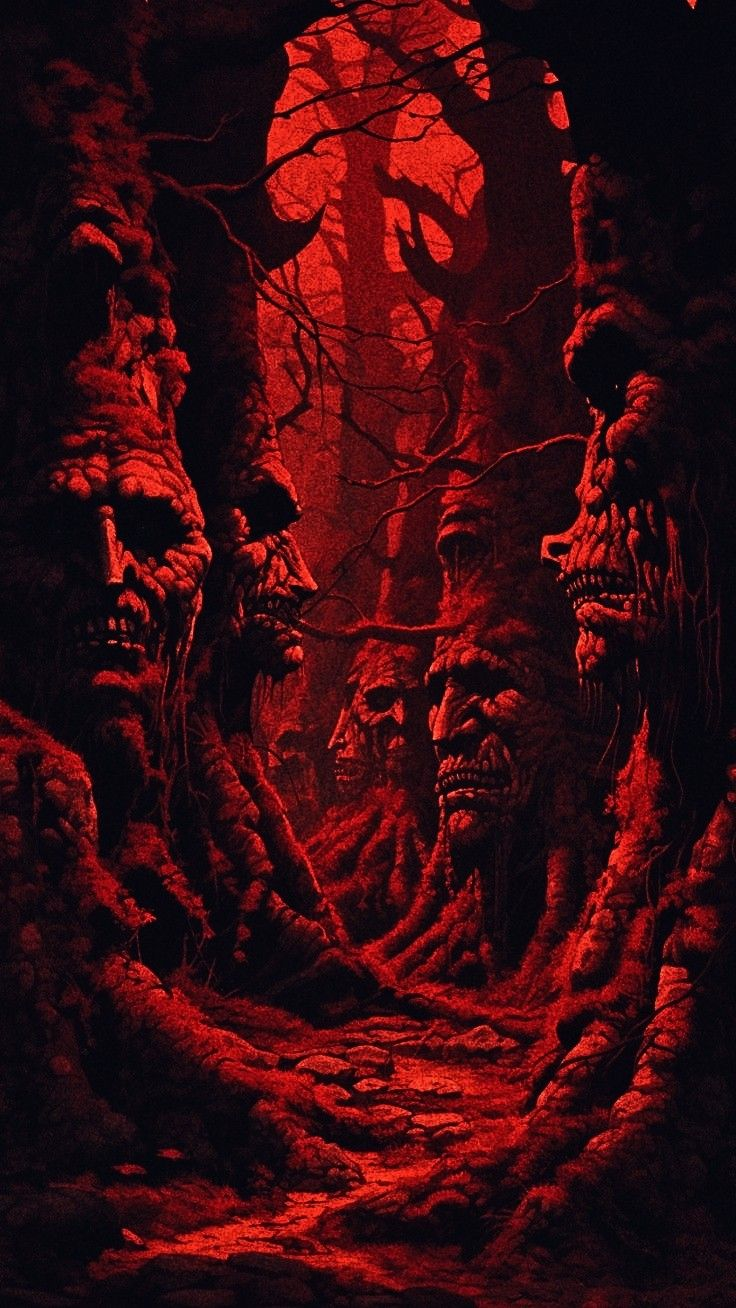
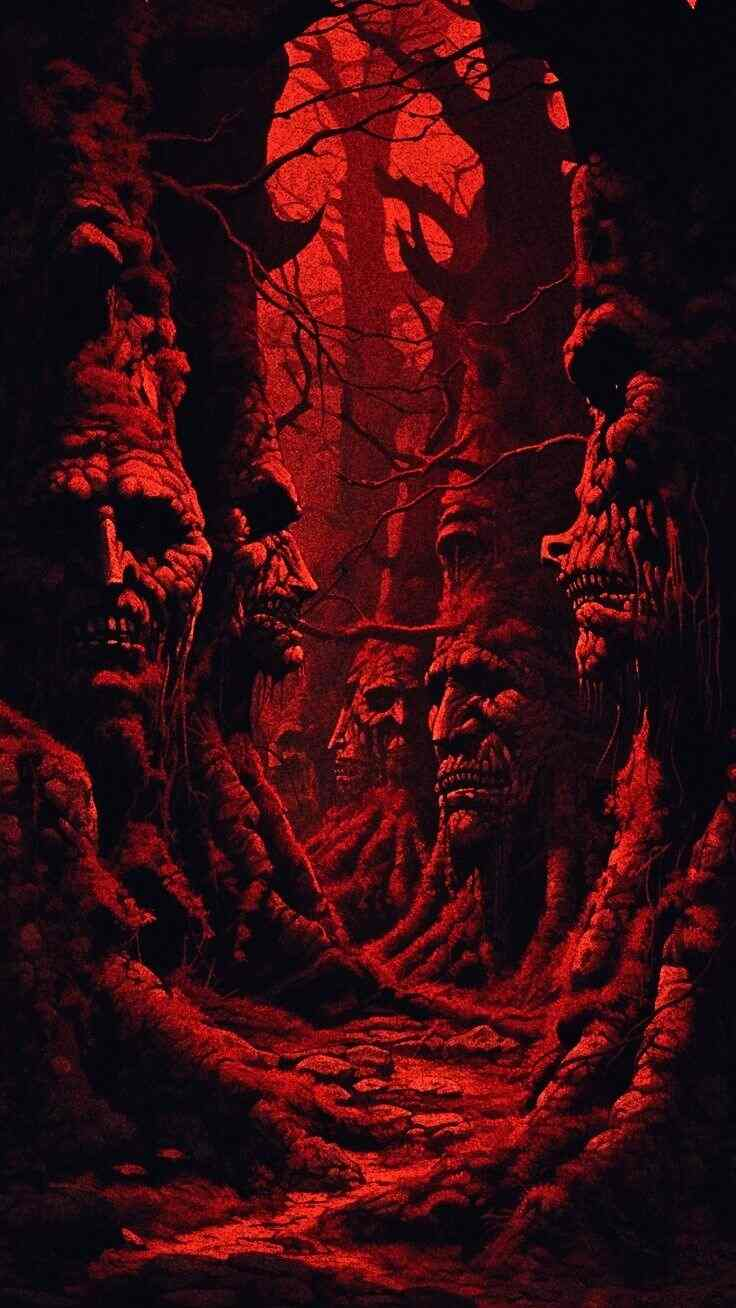
Webp images

diff --git a/frontend/src/pages/Home/SponsersSection.jsx b/frontend/src/pages/Home/SponsersSection.jsx
@@ -2,20 +2,20 @@ import React, { Fragment } from 'react';
 import { Grid, Paper, Stack, Typography } from '@mui/material';
 import { motion } from 'framer-motion'; // Import framer-motion
 
-import monster from "../../assets/home-page/sponsors-section/monster.jpeg"
-import cocaCola from "../../assets/home-page/sponsors-section/coca-cola.jpg";
-import decathlon from "../../assets/home-page/sponsors-section/decathlon.jpg";
+import monster from "../../assets/home-page/sponsors-section/monster.webp"
+import cocaCola from "../../assets/home-page/sponsors-section/coca-cola.webp";
+import decathlon from "../../assets/home-page/sponsors-section/decathlon.webp";
 import elm from "../../assets/home-page/sponsors-section/elm.jpg";
 import fusionGrill from "../../assets/home-page/sponsors-section/fusion-grill.jpg";
 import grapevine from "../../assets/home-page/sponsors-section/grapevine.jpg";
-import lic from "../../assets/home-page/sponsors-section/lic.jpg";
-import mtv from "../../assets/home-page/sponsors-section/mtv.jpg";
+import lic from "../../assets/home-page/sponsors-section/lic.webp";
+import mtv from "../../assets/home-page/sponsors-section/mtv.webp";
 import nba from "../../assets/home-page/sponsors-section/nba.jpg";
-import nivia from "../../assets/home-page/sponsors-section/nivia.png";
-import bisleri from "../../assets/home-page/sponsors-section/bisleri.png";
-import wowMomo from "../../assets/home-page/sponsors-section/wowmomo.jpeg";
-import sting from "../../assets/home-page/sponsors-section/sting.jpeg";
-import bgImage from "../../assets/home-page/sponsors-section/sponsor-bg.jpg";
+import nivia from "../../assets/home-page/sponsors-section/nivia.webp";
+import bisleri from "../../assets/home-page/sponsors-section/bisleri.webp";
+import wowMomo from "../../assets/home-page/sponsors-section/wowmomo.webp";
+import sting from "../../assets/home-page/sponsors-section/sting.webp";
+import bgImage from "../../assets/home-page/sponsors-section/sponsor-bg.webp";
 
 const sponsors = [
     {

diff --git a/frontend/src/data/events.js b/frontend/src/data/events.js
@@ -1,17 +1,17 @@
-import futsalPhoto from "../assets/events/futsal.jpg";
-import tugOfWarPhoto from "../assets/events/tug-of-war.jpg";
-import volleyballPhoto from "../assets/events/volleyball.jpg";
-import badmintonPhoto from "../assets/events/badminton.jpg";
-import basketballPhoto from "../assets/events/basketball.jpg";
-import chessPhoto from "../assets/events/chess.jpg";
-import carromPhoto from "../assets/events/carrom.jpg";
-import ttPhoto from "../assets/events/table-tennis.jpg";
-import bgmiPhoto from "../assets/events/bgmi.jpg";
-import cricketPhoto from "../assets/events/cricket.jpg";
-import powerliftingPhoto from "../assets/events/powerlifting.jpg";
-import valorantPhoto from "../assets/events/valorant.jpg";
-import fifaPhoto from "../assets/events/fifa.jpg";
-import strongWomenPhoto from "../assets/events/strong-woman.jpg";
+import futsalPhoto from "../assets/events/futsal.webp";
+import tugOfWarPhoto from "../assets/events/tug-of-war.webp";
+import volleyballPhoto from "../assets/events/volleyball.webp";
+import badmintonPhoto from "../assets/events/badminton.webp";
+import basketballPhoto from "../assets/events/basketball.webp";
+import chessPhoto from "../assets/events/chess.webp";
+import carromPhoto from "../assets/events/carrom.webp";
+import ttPhoto from "../assets/events/table-tennis.webp";
+import bgmiPhoto from "../assets/events/bgmi.webp";
+import cricketPhoto from "../assets/events/cricket.webp";
+import powerliftingPhoto from "../assets/events/powerlifting.webp";
+import valorantPhoto from "../assets/events/valorant.webp";
+import fifaPhoto from "../assets/events/fifa.webp";
+import strongWomenPhoto from "../assets/events/strong-woman.webp";
 
 const eventsList = [
     {

diff --git a/frontend/src/pages/Home/AboutSection.jsx b/frontend/src/pages/Home/AboutSection.jsx
@@ -1,9 +1,10 @@
 import React from 'react';
 import { Grid, Paper, Stack, Typography } from '@mui/material';
 import { motion } from 'framer-motion';
-import aboutBg from "../../assets/about-page/about-bg.jpeg";
-import iiestImage from "../../assets/about-page/iiest.png";
-import wolfImage from "../../assets/about-page/wolf.JPG";
+import aboutBg from "../../assets/about-page/about-bg.webp";
+import iiestImage from "../../assets/about-page/iiest.webp";
+import wolfImage from "../../assets/about-page/wolf.webp";
+import wolfMoon from "../../assets/about-page/wolf-moon.webp";
 
 // Wrap the Paper component with motion
 const MotionPaper = motion(Paper);
@@ -198,7 +199,7 @@ function AboutSection() {
 
             <AboutCard 
                 title={'Wolfame'} 
-                src={"https://i.pinimg.com/736x/4d/76/65/4d7665854eddacbcd6d9c14c1446073d.jpg"}
+                src={wolfMoon}
                 index={0}
             >
                 Wolfame is a sports and cultural festival organised by Wolfenden Hall annually. The four-day-long event involves a plethora of activities, both indoor and outdoor, attended by enthusiastic students willing to prove their mettle. The much-anticipated festival has returned to reignite the spark of competition among the students and will be witnessed by an approximate of 6,500+ people.

diff --git a/frontend/public/index.html b/frontend/public/index.html
@@ -3,7 +3,7 @@
 
 <head>
   <meta charset="utf-8" />
-  <link rel="icon" href="%PUBLIC_URL%/wolf.png" />
+  <link rel="icon" href="%PUBLIC_URL%/wolf.webp" />
   <meta name="viewport" content="width=device-width, initial-scale=1" />
   <meta name="theme-color" content="#000000" />
   <meta name="apple-mobile-web-app-capable" content="yes" />
@@ -13,8 +13,8 @@
   <meta property="og:title" content="WOLFAME" />
   <meta property="og:description"
     content="The annual cultural and sports fest of Wolfenden Hall, IIEST, Shibpur for those who dare to face a challenge. Check out the details." />
-  <meta property="og:image" content="https://www.wolfame.live/wolf.png" />
-  <link rel="apple-touch-icon" href="%PUBLIC_URL%/wolf.png" />
+  <meta property="og:image" content="https://www.wolfame.live/wolf.webp" />
+  <link rel="apple-touch-icon" href="%PUBLIC_URL%/wolf.webp" />
   <link rel="manifest" href="%PUBLIC_URL%/manifest.json" />
 
   <link rel="preconnect" href="https://fonts.googleapis.com" />

diff --git a/frontend/src/pages/Schedule/index.jsx b/frontend/src/pages/Schedule/index.jsx
@@ -1,13 +1,15 @@
-import React from 'react';
+import React,  {useEffect} from 'react'
 import { Stack } from '@mui/material';
 import TimeLine from './TimeLine';
 import DefaultHeader from '../../UI/DefaultHeader';
-import eventsbgPhoto from '../../assets/events-page/hero-bg.jpg';
-import sectionBgPhoto from '../../assets/events-page/black-bg.jpg'; // Add your background image
+import eventsbgPhoto from '../../assets/events-page/hero-bg.webp';
+import sectionBgPhoto from '../../assets/events-page/black-bg.webp'; // Add your background image
 
-function Index() {
+function Schedule() {
     const subtitleText = `Mark your calendars and sync your adrenaline! Here’s the ultimate timeline of Wolfame 2025 – where every second counts and every moment thrills.`;
-
+    useEffect(() => {
+        window.scrollTo(0, 0);
+      }, []);
     return (
         <Stack
             gap={2}
@@ -47,4 +49,4 @@ function Index() {
     );
 }
 
-export default Index;
+export default Schedule;

diff --git a/frontend/src/data/timeline.js b/frontend/src/data/timeline.js
@@ -1,8 +1,8 @@
-import inaugurationPhoto from '../assets/events-page/inauguration-bg.jpg'
-import firstdayPhoto from '../assets/home-page/gallery-section/gallery2.jpg'
-import seconddayPhoto from '../assets/home-page/gallery-section/gallery3.jpg'
-import thirddayPhoto from '../assets/home-page/gallery-section/gallery7.jpg'
-import culturalPhoto from '../assets/events-page/cultural-bg.jpg'
+import inaugurationPhoto from '../assets/events-page/inauguration-bg.webp'
+import firstdayPhoto from '../assets/home-page/gallery-section/gallery2.webp'
+import seconddayPhoto from '../assets/home-page/gallery-section/gallery3.webp'
+import thirddayPhoto from '../assets/home-page/gallery-section/gallery7.webp'
+import culturalPhoto from '../assets/events-page/cultural-bg.webp'
 
 const timelineList = [
     {

diff --git a/frontend/src/pages/Matches/index.jsx b/frontend/src/pages/Matches/index.jsx
@@ -1,13 +1,16 @@
-import React, { useContext } from 'react'
+import React, { useContext, useEffect } from 'react'
 import { Stack, Paper, Typography, Link, Button } from '@mui/material'
 import DefaultHeader from '../../UI/DefaultHeader'
 import MatchSection from '../../components/Sections/MatchSection'
 import { AuthContext } from '../../context/AuthProvider'
 import { useNavigate } from 'react-router'
-import bgImage from '../../assets/matches-page/hero-bg.jpg'
+import bgImage from '../../assets/matches-page/hero-bg.webp'
 import StayTuned from '../../components/StayTuned.jsx'
 
 function Matches() {
+    useEffect(() => {
+        window.scrollTo(0, 0);
+      }, []);
     const { user } = useContext(AuthContext)
     const navigate = useNavigate()
 

diff --git a/frontend/src/pages/ContactUs/ContactSection.jsx b/frontend/src/pages/ContactUs/ContactSection.jsx
@@ -4,9 +4,12 @@ import React, { useState } from 'react'
 import contactList from '../../data/contact'
 import UserCard from '../../components/Cards/UserCard';
 
-
 function ContactSection() {
-    const [selectedContactMenu, setSelectedContactMenu] = useState(contactList[contactList.length - 1])
+    // Find the "Coordinator" contact item from the contactList
+    const coordinatorContact = contactList.find(contactItem => contactItem.title === "Coordinator");
+
+    // Set the initial state to the "Coordinator" contact item
+    const [selectedContactMenu, setSelectedContactMenu] = useState(coordinatorContact || contactList[0]);
 
     const contactMenuChangeHandler = (contactItem) => {
         setSelectedContactMenu(contactItem)

diff --git a/frontend/src/pages/ContactUs/index.jsx b/frontend/src/pages/ContactUs/index.jsx
@@ -1,9 +1,12 @@
-import React from 'react'
+import React,{useEffect} from 'react'
 import { Stack } from '@mui/material'
 import ContactSection from './ContactSection'
 import DefaultHeader from '../../UI/DefaultHeader'
 
-function index() {
+function ContactUs() {
+    useEffect(() => {
+        window.scrollTo(0, 0);
+      }, []);
     return (
         <Stack pb={4} sx={{ flexGrow: 1, flexShrink: 1, flexBasis: 'auto', overflowX: 'hidden' }}>
             <DefaultHeader title='Contact Us' height='110vh' subtitle="Connect with us for inquiries, collaborations, or support.  
@@ -13,4 +16,4 @@ Reach out and let’s make Wolfame 2025 unforgettable."/>
     )
 }
 
-export default index
+export default ContactUs

diff --git a/frontend/src/pages/Home/index.jsx b/frontend/src/pages/Home/index.jsx
@@ -1,12 +1,18 @@
 import { Paper, Stack } from '@mui/material'
-import React from 'react'
+import React,  {useEffect} from 'react'
 import AboutSection from './AboutSection'
 import EventSection from './EventSection'
 import HeroSection from './HeroSection'
 import SponsersSection from './SponsersSection'
 import './index.css'
 
-function index() {
+
+function Home() {
+     // Scroll to the top when the component mounts
+  useEffect(() => {
+    window.scrollTo(0, 0);
+  }, []);
+    
     return (
         <Stack sx={{ flexGrow: 1, flexShrink: 1, flexBasis: 'auto', overflowX: 'hidden' }}>
             <HeroSection />
@@ -17,4 +23,4 @@ function index() {
     )
 }
 
-export default index
+export default Home

diff --git a/frontend/src/pages/Schedule/TimeLine.jsx b/frontend/src/pages/Schedule/TimeLine.jsx
@@ -5,8 +5,8 @@ import 'react-vertical-timeline-component/style.min.css';
 import { motion, useAnimation } from 'framer-motion';
 import { useInView } from 'react-intersection-observer';
 import timelineList from '../../data/timeline';
-import skullPhoto from '../../assets/skull.png';
-import backgroundImage from '../../assets/events-page/hero-bg-1.jpg'; // Replace with your background image path
+import skullPhoto from '../../assets/skull.webp';
+import backgroundImage from '../../assets/events-page/hero-bg-1.webp'; // Replace with your background image path
 
 // Animation variants for framer-motion
 const cardVariants = {

diff --git a/frontend/src/pages/Home/EventSection.jsx b/frontend/src/pages/Home/EventSection.jsx
@@ -3,7 +3,7 @@ import { Stack, Typography } from "@mui/material";
 import { Carousel, Card } from "../../components/AppleCardsCarousel.jsx"; // Import the carousel and card components
 import "../../components/AppleCardsCarousel.css"; // Import the CSS for styling
 import eventsList from "../../data/events.js"; // Import the events data
-import eventBg from "../../assets/home-page/event-bg.jpg"; // Import the background image
+import eventBg from "../../assets/home-page/event-bg.webp"; // Import the background image
 import { motion } from "framer-motion"; // Import framer-motion
 
 function EventSection() {
